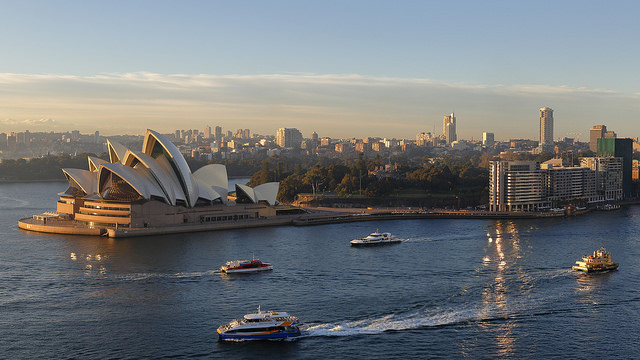
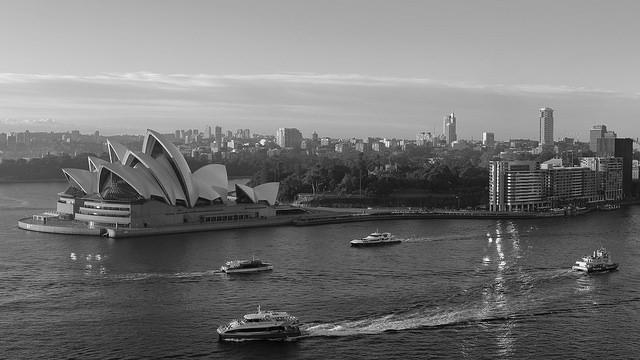
save and convert images

diff --git a/ConvertImageToGreyScale.py b/ConvertImageToGreyScale.py
@@ -1,0 +1,12 @@
+# example of saving a grayscale version of a loaded image
+from PIL import Image
+# load the image
+image = Image.open('Sydney-Opera-House.jpeg')
+# convert the image to grayscale
+gs_image = image.convert(mode='L')
+# save in jpeg format
+gs_image.save('Sydney-Opera-House.jpeg')
+# load the image again and show it
+image2 = Image.open('Sydney-Opera-House.jpeg')
+# show the image
+image2.show()

diff --git a/SaveImage.py b/SaveImage.py
@@ -1,0 +1,9 @@
+# example of saving an image in another format
+from PIL import Image
+# load the image
+image = Image.open('Sydney-Opera-House.jpeg')
+# save as PNG format
+image.save('Sydney-Opera-House.png', format='PNG')
+# load the image again and inspect the format
+image2 = Image.open('Sydney-Opera-House.png')
+print(image2.format)
